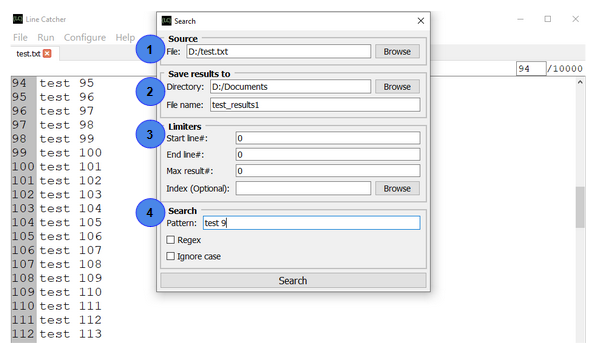
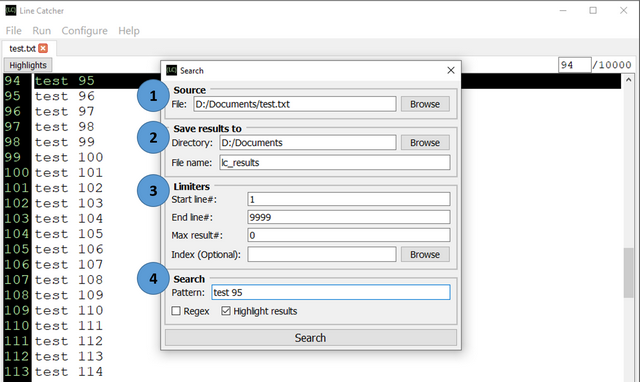
Updated documentation and screenshots

diff --git a/resources/gettingstarted.html b/resources/gettingstarted.html
@@ -180,8 +180,8 @@ li > * {
     <li><span><b>Source</b>: Use the Browse button to navigate to the source file you want to perform search 
         operations on.</span></li>
     <li><span><b>Save results to</b>: You can save your search result to re-use it for other searches. 
-        You need to select a <u>directory</u> to save you search results and provide a meaningful <u>file 
-        name</u> to find them later.</span></li>
+        You need to select a <u>directory</u> to store your results to find them later. 
+		"lc_results" is a default results file name, which you can update.</span></li>
     <li><span><b>Limiters</b>: Limiters are used to narrow down the search area.</span>
         <ul>
             <li><span><u>Start line #</u> is the first line LC will refer to when starting the search. 
@@ -202,8 +202,7 @@ li > * {
             <li><span><u>Pattern line</u> contains the pattern to use during search. By default, every 
                 line will be checked for containing the pattern text.</span></li>
             <li><span><u>Regex</u> option if checked - the pattern is treated like a regular expression.</span></li>
-            <li><span>Select <u>Ignore case</u> box, the pattern is applied while ignoring upper/lower 
-                character differences.</span></li>
+            <li><span>Select <u>Highlight results</u> box - search results will be highlighted in the file.</span></li>
         </ul>
     </li>
 </ol>
@@ -316,6 +315,7 @@ li > * {
     To run a script, click <b>“Run”</b> button. The <b>console output</b> window will notify you if 
     the script compiled or failed to compile. If you have made any changes to the script, 
     the <b>“Save”</b> button will turn red as a reminder to save the changes. 
+	If the file is read-only or located in the read-only directory, <b>"Save"</b> button will be disabled. You can instead use <b>"Save As"</b> button to save file in the directory of your choice.
 </p>
 <p><img src="images/script_editor.png" alt="Script editor"></p>
 
